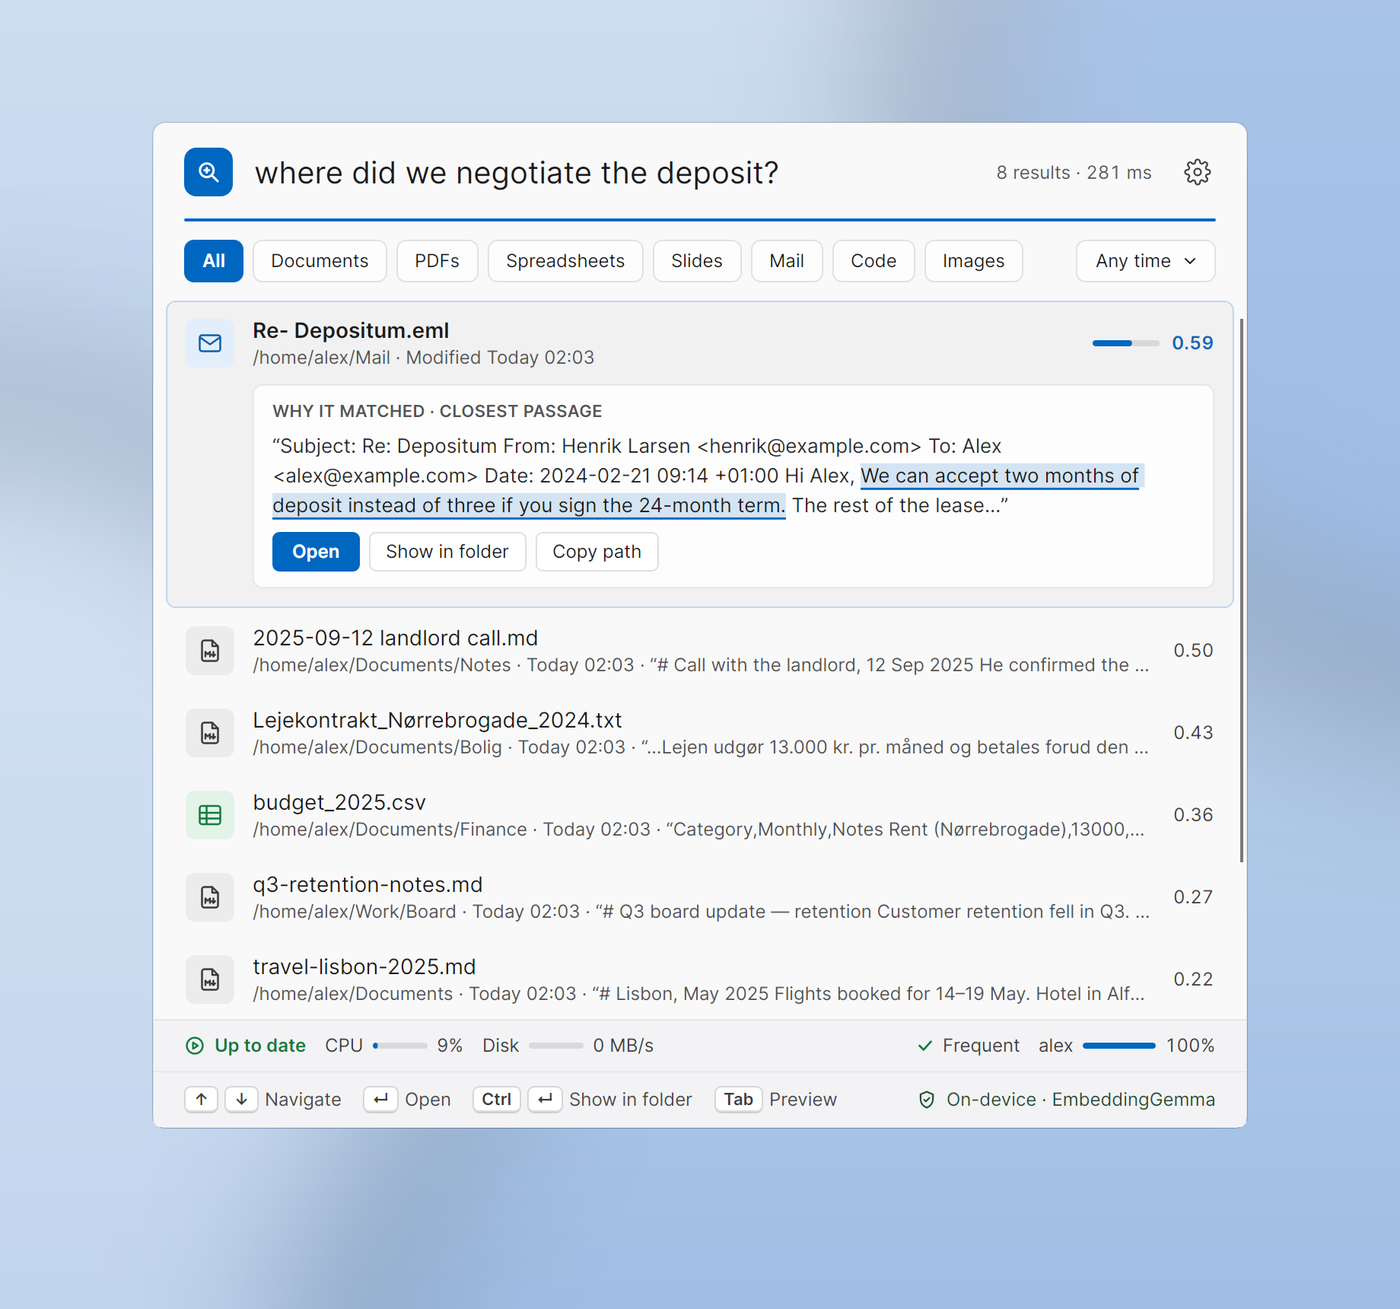
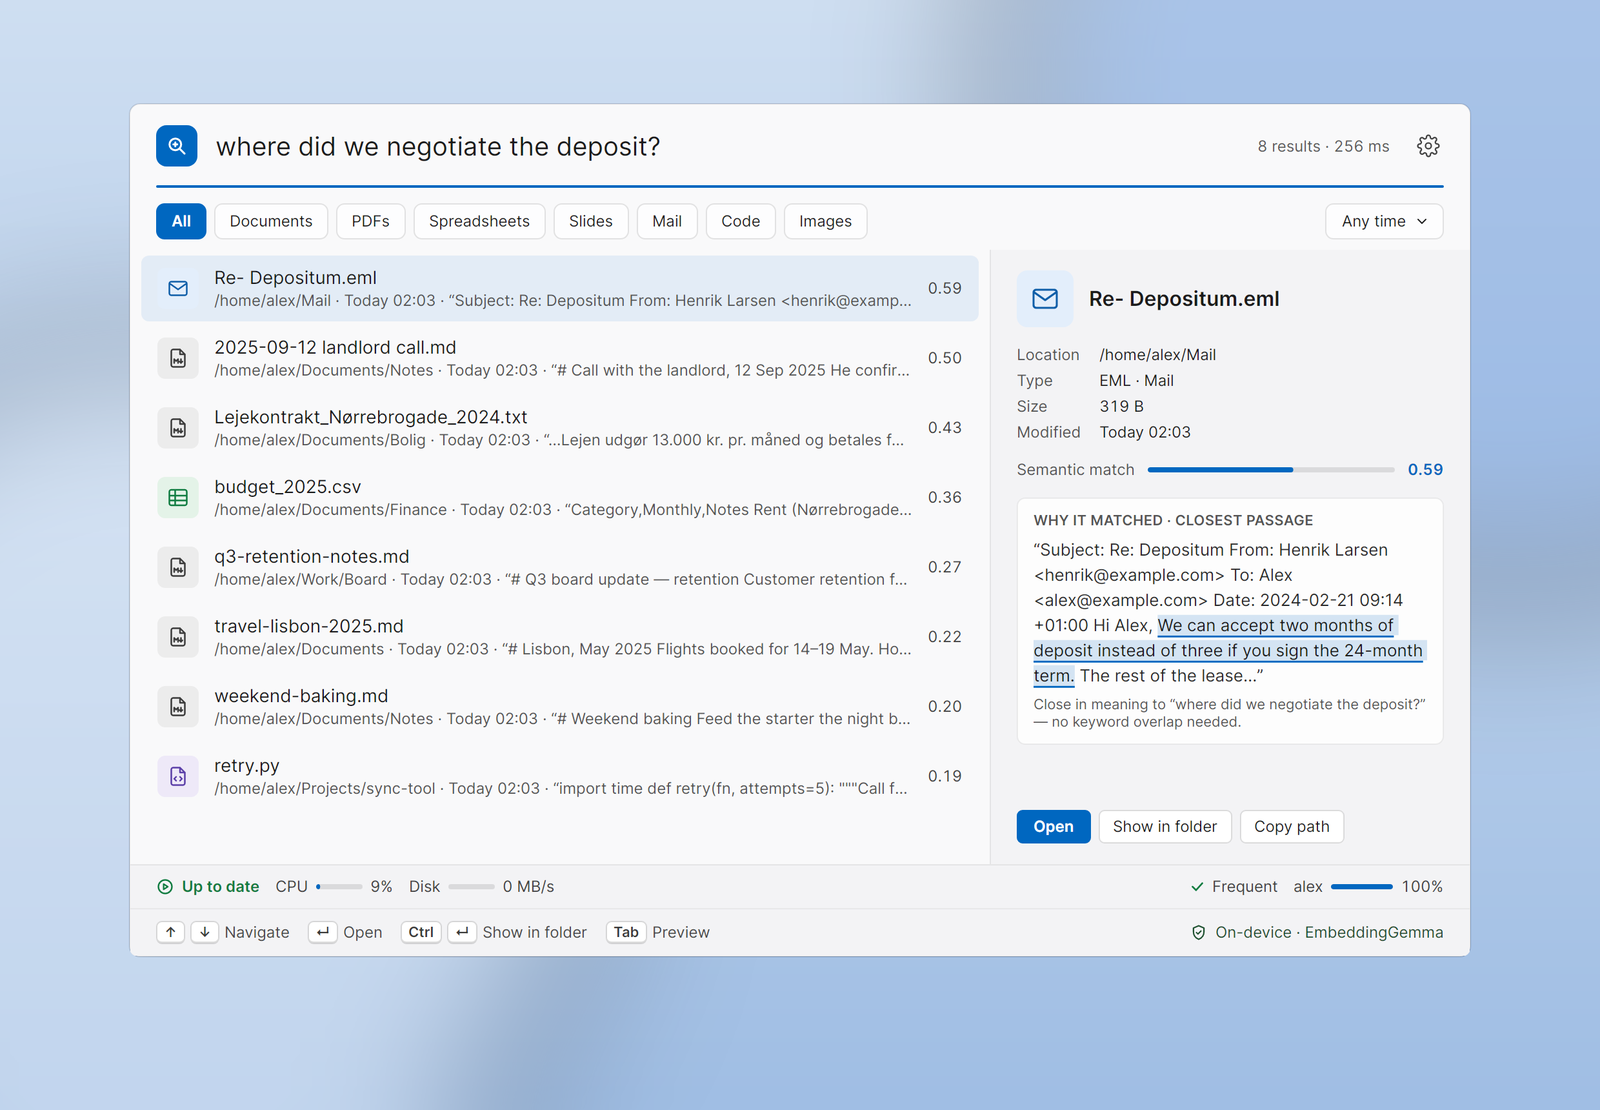
Windows launcher: details pane for the selected file, like macOS
Results stay compact on the left; the right pane shows the selected file's icon and name, location, type, size,
modified date, semantic-match bar, the 'why it matched' passage and Open / Show in folder / Copy path.
Tab hides the pane (IsPreviewVisible), as on macOS. README shows the new Windows launcher full width.

Claude-Session: https://claude.ai/code/session_01KD7sVhndyuqZVkkkBLhVww

diff --git a/tests/Valafind.App.Tests/Headless/LauncherScreenshotTests.cs b/tests/Valafind.App.Tests/Headless/LauncherScreenshotTests.cs
@@ -82,18 +82,21 @@ public sealed class LauncherScreenshotTests(HeadlessFixture fixture)
         }, TestContext.Current.CancellationToken);
 
     [Fact]
-    public Task TogglingPreviewCollapsesTheExpandedRow() =>
+    public Task WindowsDetailsPaneFollowsSelectionAndTabHidesIt() =>
         fixture.Session.Dispatch(() =>
         {
+            // Like macOS, the Windows launcher shows the selected file in a details pane on the right.
             var vm = DesignData.Create(UiFlavor.Windows);
-            var expanded = Render(UiFlavor.Windows, vm, ThemeVariant.Light, out _);
-            vm.TogglePreviewCommand.Execute(null);
-            var compact = Render(UiFlavor.Windows, vm, ThemeVariant.Light, out _);
-            Assert.True(compact.PixelSize.Height < expanded.PixelSize.Height);
             vm.MoveDownCommand.Execute(null);
+            var withPane = Render(UiFlavor.Windows, vm, ThemeVariant.Light, out var view);
+            var pane = view.FindControl<Border>("DetailsPane")!;
+            Assert.True(pane.IsVisible);
+            Assert.Same(vm.Results[1], ((Control)pane.Child!).DataContext);
+            Save(withPane, "windows-second-selected.png");
+
             vm.TogglePreviewCommand.Execute(null);
-            var second = Render(UiFlavor.Windows, vm, ThemeVariant.Light, out _);
-            Save(second, "windows-second-selected.png");
+            Render(UiFlavor.Windows, vm, ThemeVariant.Light, out view);
+            Assert.False(view.FindControl<Border>("DetailsPane")!.IsVisible);
         }, TestContext.Current.CancellationToken);
 
     [Fact]

diff --git a/README.md b/README.md
@@ -11,9 +11,15 @@ file, even when it is written in another language and named `scan_0042.pdf`. Eve
 
 ## At home on every desktop
 
-| Windows | Linux |
-|:---:|:---:|
-| <img src="docs/screenshots/windows-launcher.png" width="420" alt="Windows command launcher with results and the 'why it matched' passage"> | <img src="docs/screenshots/linux-launcher.png" width="420" alt="Linux GNOME-style dialog with results and the index status"> |
+<p align="center">
+  <img src="docs/screenshots/windows-launcher.png" width="860" alt="Windows: results on the left; on the right a details pane with location, type, size, semantic match and the sentence that explains it">
+  <br><sub>Windows: results on the left, the selected file on the right.</sub>
+</p>
+
+<p align="center">
+  <img src="docs/screenshots/linux-launcher.png" width="560" alt="Linux GNOME-style dialog with results and the index status">
+  <br><sub>Linux (GNOME style).</sub>
+</p>
 
 ## Stays out of your way
 
